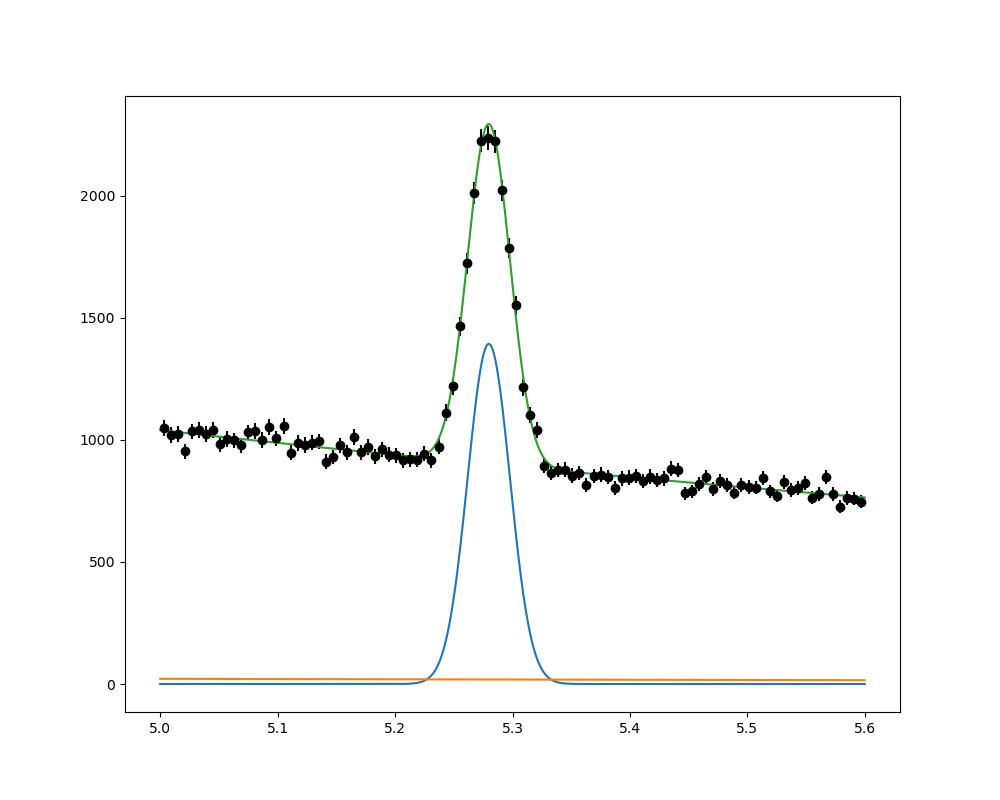
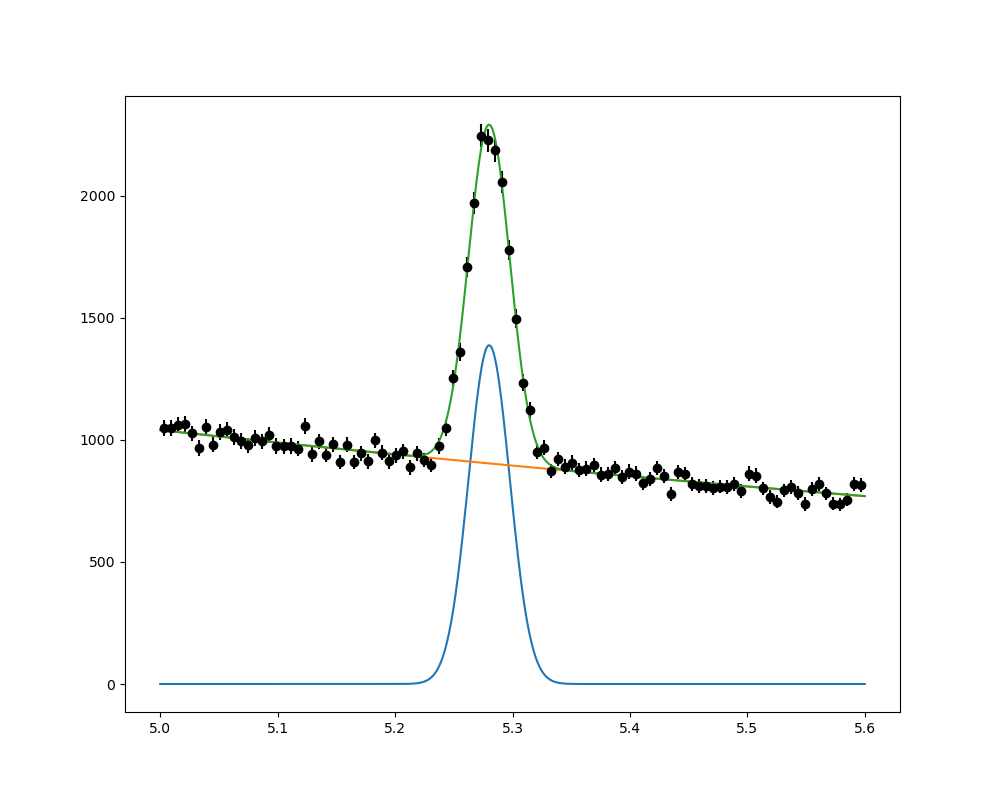
Change: weights in part e plot

diff --git a/src/solve_part_e.py b/src/solve_part_e.py
@@ -5,7 +5,7 @@ from iminuit.cost import BinnedNLL
 from mixed_pdf_tools import (
     pdf_h1_fast,
     rej_sample,
-    cdf_norm_expon_mixed,
+    cdf_h1_fast,
     plot_signal_background_mixed,
 )
 
@@ -15,10 +15,8 @@ sample_array, _ = rej_sample(
 nh, xe = np.histogram(sample_array, bins=100, range=(5, 5.6))
 
 # Perform binned ML fit of parameters.
-nll = BinnedNLL(nh, xe, cdf_norm_expon_mixed)
-mi = Minuit(nll, f=0.5, la=1.0, mu=5.3, sg=0.1, alpha=5.0, beta=5.6)
-mi.fixed["alpha"] = True
-mi.fixed["beta"] = True
+nll = BinnedNLL(nh, xe, cdf_h1_fast)
+mi = Minuit(nll, f=0.5, la=1.0, mu=5.3, sg=0.1)
 mi.limits["f"] = (0, 1)
 mi.limits["la"] = (1e-9, 1e3)
 mi.limits["mu"] = (5.0, 5.6)
